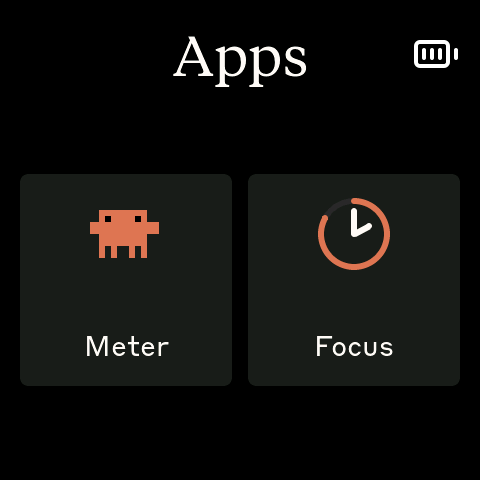
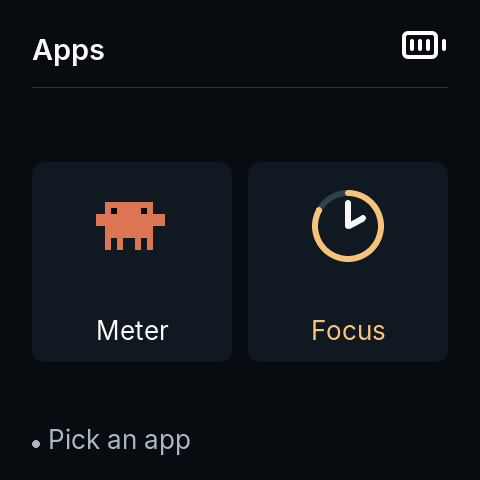
docs: design-system screens in the README and guides; H14 closed

diff --git a/README.md b/README.md
@@ -7,7 +7,7 @@
 ![Built with PlatformIO](https://img.shields.io/badge/built%20with-PlatformIO-orange)
 
 <p align="center">
-  <img src="docs/media/screens/hw-claude.png" width="360" alt="ToknMon showing Claude Code usage: Current and Weekly bars on the Waveshare 2.16 AMOLED">
+  <img src="docs/media/screens/hw-claude.png" width="360" alt="ToknMon showing Claude Code usage on the Waveshare 2.16 AMOLED: weekly bar, 5-hour block and the Clawd mascot in the header">
 </p>
 
 **ToknMon** is a desk-side usage meter for AI coding assistants. A pocket-size
@@ -47,9 +47,9 @@ requests are welcome, support is best-effort.
 | | |
 | --- | --- |
 | <img src="docs/media/screens/claude-usage.png" width="240" alt="Claude usage view with Current and Weekly bars"> | **Four providers, one carousel.** Claude Code (5-hour session and weekly bars, plus the model-scoped **Fable** weekly window on its own page of small Clawds when your plan has one), Codex CLI, Kimi Code and Grok Build CLI each get a slot. Tap or swipe to page; it stays on the provider you picked, even after a reboot. Paging skips slots without fresh data. |
-| <img src="docs/media/screens/hw-codex-credits.png" width="240" alt="Codex page on the real panel: reset-credit ledger above the weekly dot grid"> | **A screen per provider.** Codex shows a 10×10 dot grid filling to the weekly percentage (plus a compact 5h bar when the plan has one) and, when your account has them, a **Resets** ledger of OpenAI's reset credits: how many you hold, how many you spent in the last 30 days and when the next one expires. Grok shows its weekly credit window on a silver dot grid; Kimi shows 5h and weekly bars in blue; Claude keeps its bars in clay. |
+| <img src="docs/media/screens/hw-codex.png" width="240" alt="Codex page on the real panel: weekly bar, reset-credit panel and the Bsod mascot in the header"> | **A screen per provider, one design system.** Every page shares the same module (H14): title and mascot in the header, the weekly figure in large type, a full-width usage bar, the reset time and a footer with a status dot. Codex adds a **Reset credits** panel when your account has them (held, used in the last 30 days, next expiry); Claude and Kimi add a `CURRENT · 5H` block; Grok shows its weekly credit window in silver; Fable shows Claude's model-scoped weekly window as a 5×4 grid of Clawds, one per 5 %. |
 | <img src="docs/media/screens/hw-codex-pet-rocky.png" width="240" alt="Rocky, one of the Codex pets, full-size on the real panel"> | **Codex pets.** The eight ChatGPT pets (Bsod, Codex, Dewey, Fireball, Null Signal, Rocky, Seedy, Stacky) ride along in Codex's full-screen set: idle loop, wave, jump and a happy hop. Tap the splash to cycle them. Converted from the sprite sheets with `tools/convert_pet_spritesheet.py` (see `NOTICE.md`). |
-| <img src="docs/media/screens/mascot-codex.png" width="240" alt="Mascot mode pinned to Codex"> | **Mascots and mascot mode.** Clawd for Claude (Anthropic's official set), original three-dots, crescent-moon and Grokbot-style ball characters for Codex, Kimi and Grok, each with idle, acts, a mountain-bike ride and two full-screen scenes. Long-press the meter to watch a provider's set full-size. |
+| <img src="docs/media/screens/mascot-codex.png" width="240" alt="Mascot mode pinned to Codex"> | **Mascots and mascot mode.** Clawd for Claude (Anthropic's official set), the Bsod pet for Codex, original crescent-moon and Grokbot-style ball characters for Kimi and Grok, each with idle, acts, a mountain-bike ride and two full-screen scenes. Long-press the meter to watch a provider's set full-size. |
 | <img src="docs/media/screens/parade.png" width="240" alt="Idle parade with the Codex mascot on stage"> | **The parade.** The device rotates every live provider's full-size mascot every 20 s, until you swipe back. It never starts on its own (serial `parade on`). |
 | <img src="docs/media/screens/scene-kimi-night.png" width="240" alt="Kimi night scene"> | **Draw your own.** Animations are plain text grids compiled by a small Node tool. The Codex and Kimi scenes were authored by an AI agent from a two-sentence brief. |
 | <img src="docs/media/screens/splash-claude.png" width="240" alt="Default Clawd splash"> | **Quiet by design.** No cloud, no accounts of its own: the daemon reads the tokens your CLIs already have (Claude Code, Codex, Kimi, Grok) or local logs, polls once a minute with no token spend, and pushes ~150 bytes per provider over BLE. The BOOT button doubles as a Bluetooth keyboard key for Claude Code (Space). |
@@ -84,7 +84,7 @@ On the device the scenes fill the 480×480 panel:
 | Board | PlatformIO env | Status |
 | --- | --- | --- |
 | [Waveshare ESP32-S3-Touch-AMOLED-2.16](https://www.waveshare.com/esp32-s3-touch-amoled-2.16.htm) — 480×480 CO5300 AMOLED, CST9220 touch, AXP2101 PMU, QMI8658 IMU, ES8311 codec | `waveshare_amoled_216` | ✅ **verified** — the board ToknMon is developed and tested on |
-| Waveshare ESP32-S3-Touch-AMOLED-1.8, ESP32-S3-Touch-AMOLED-2.06, ESP32-C6-Touch-AMOLED-2.16 / 1.8, ESP32-S3-Touch-LCD-1.54, ESP32-S3-Touch-LCD-4 | `waveshare_amoled_18`, `waveshare_amoled_206`, `waveshare_amoled_216_c6`, `waveshare_amoled_18_c6`, `waveshare_lcd_154`, `waveshare_lcd_4` | ⚠ **inherited from Clawdmeter, untested with ToknMon.** They compile in CI, but nobody has run the multi-provider UI, mascots or gestures on them since the fork. The C6 boards have no PSRAM: no corner mascots, no dot grid, no `screenshot` command. Reports welcome. |
+| Waveshare ESP32-S3-Touch-AMOLED-1.8, ESP32-S3-Touch-AMOLED-2.06, ESP32-C6-Touch-AMOLED-2.16 / 1.8, ESP32-S3-Touch-LCD-1.54, ESP32-S3-Touch-LCD-4 | `waveshare_amoled_18`, `waveshare_amoled_206`, `waveshare_amoled_216_c6`, `waveshare_amoled_18_c6`, `waveshare_lcd_154`, `waveshare_lcd_4` | ⚠ **inherited from Clawdmeter, untested with ToknMon.** They compile in CI, but nobody has run the multi-provider UI, mascots or gestures on them since the fork. The C6 boards have no PSRAM: no corner mascots, no Fable grid, no `screenshot` command. Reports welcome. |
 
 **Host**: macOS only. The Linux and Windows daemons in `daemon/` are inherited,
 Claude-only and untested with ToknMon.
@@ -204,19 +204,20 @@ The board boots on the **splash** (animations) and swipes to the **meter**
   until you touch it (serial `parade on` starts it).
 - **App center and Focus** (H12): the side button shows one tile per enabled
   app. **Focus** is a block timer for deep work: pick a block (25 min by
-  default, 5 to 120 in 5-minute steps: tap the right half or swipe up for +5,
-  left half or swipe down for −5), press **Start** (or PWR), and the ring
-  empties while the countdown runs; tap pauses, a long press cancels. At zero
-  the bell rings three times, the screen says **Done · Block N today** and
-  **Start next** begins another block of the same length. The daily counter
+  default, 5 to 120 in 5-minute steps: the **−5 / +5** cards, the screen
+  halves or a vertical swipe), press **Start focus** (or PWR), and the amber
+  ring empties while the countdown runs; **Pause** / **Resume** on the button
+  or PWR, a long press on the timer cancels. At zero the bell rings three
+  times, the screen says **COMPLETE** and **Start next** returns to setup
+  with the same length for another explicit start. The daily counter
   survives reboots and resets when the daemon's clock says the day changed.
   The host decides which apps the board offers (`apps = meter` hides Focus
   and the app center; the menu-bar app toggles it). Details:
   [`docs/apps.md`](docs/apps.md).
 
-| <img src="docs/media/screens/hw-apps.png" width="220" alt="App center with the Meter and Focus tiles on the real panel"> | <img src="docs/media/screens/hw-focus-setup.png" width="220" alt="Focus setup: 25:00 inside the ring, 0 blocks today, Start"> | <img src="docs/media/screens/hw-focus-running.png" width="220" alt="Focus running: 24:58, Block 2 today"> | <img src="docs/media/screens/hw-focus-done.png" width="220" alt="Focus done: Done, Block 2 today, Start next"> |
+| <img src="docs/media/screens/hw-apps.png" width="220" alt="App center with the Meter and Focus tiles on the real panel"> | <img src="docs/media/screens/hw-focus-setup.png" width="220" alt="Focus setup: 25:00 inside the ring, minus and plus cards, Start focus"> | <img src="docs/media/screens/hw-focus-running.png" width="220" alt="Focus running: countdown inside the amber ring, Pause"> | <img src="docs/media/screens/hw-focus-done.png" width="220" alt="Focus complete: 00:00, empty ring, Start next"> |
 | --- | --- | --- | --- |
-| app center | Focus: setup | Focus: running | Focus: done |
+| app center | Focus: setup | Focus: running | Focus: complete |
 
 - **Attention alerts**: with the Claude Code hooks installed
   ([how](docs/install-macos.md#attention-alerts-from-claude-code-optional)),
@@ -227,9 +228,9 @@ The board boots on the **splash** (animations) and swipes to the **meter**
 | Provider | Source | Screen |
 | --- | --- | --- |
 | **Claude Code** | `GET https://api.anthropic.com/api/oauth/usage` with the Claude Code OAuth token — one request per poll, no token spend | Current (5h) and Weekly bars, and a **Fable** view (a grid of small Clawds) when the subscription reports a model-scoped window |
-| **Codex CLI** | the newest `rate_limits` entry in `~/.codex/sessions/**/rollout-*.jsonl` (last 7 days) — local files; plus, once an hour, OpenAI's reset credits with the Codex CLI login (`codex_credits = off` disables it) | 10×10 dot grid for the weekly window, large percentage and reset time; compact 5h bar only when the plan has one; a "Resets" ledger when the account has reset credits |
+| **Codex CLI** | the newest `rate_limits` entry in `~/.codex/sessions/**/rollout-*.jsonl` (last 7 days) — local files; plus, once an hour, OpenAI's reset credits with the Codex CLI login (`codex_credits = off` disables it) | weekly usage bar, large percentage and reset time; a "Reset credits" panel when the account has reset credits (the 5h window, when a plan has one, yields to the panel) |
 | **Kimi Code** | `GET https://api.kimi.com/coding/v1/usages` with the token from `~/.kimi-code/credentials`; expired tokens are refreshed through `https://auth.kimi.com/api/oauth/token` and written back like the CLI does | 5h and weekly bars |
-| **Grok Build CLI** | `GET https://cli-chat-proxy.grok.com/v1/billing?format=credits` with the access token from `~/.grok/auth.json`; an expired token is refreshed through `https://auth.x.ai/oauth2/token` and written back like Grok does; when the call still fails, the newest billing line in `~/.grok/logs/unified.jsonl` if it is under 6 h old | 10×10 dot grid for the weekly credit window (Grok has no 5h window) |
+| **Grok Build CLI** | `GET https://cli-chat-proxy.grok.com/v1/billing?format=credits` with the access token from `~/.grok/auth.json`; an expired token is refreshed through `https://auth.x.ai/oauth2/token` and written back like Grok does; when the call still fails, the newest billing line in `~/.grok/logs/unified.jsonl` if it is under 6 h old | weekly credit bar in silver with the remaining percentage (Grok has no 5h window) |
 
 **Detection.** With `providers = auto` (the default) the daemon checks on every
 poll which providers are usable, locally and without network: a Claude Code

diff --git a/docs/odd/toknmon-h14-ui-redesign.md b/docs/odd/toknmon-h14-ui-redesign.md
@@ -26,7 +26,7 @@ Objective: the Fable, Codex and Grok pages and the Focus screens use the whole 4
 | T3 | S2 → propuesta design system (fonts, theme, usage pages, app center, footer) | delegated writer H | done | `376eb90` (Inter fonts), `b83b501` (UI) |
 | T4 | S3 Focus layout | writer G built v1 (`c597917`); writer I rebuilt it on the propuesta geometry | done | `4b84765` |
 | T6 | L15 text sizes, inline label, smaller figure, Fable 5×4 grid | delegated writer J | done | `6e572a6` |
-| T5 | hardware flash, screenshots, docs/media, CHANGELOG, PR update | inline (parent) | open | |
+| T5 | hardware flash, screenshots, docs/media, CHANGELOG, PR update | inline (parent) | done | docs commit (see L18) |
 
 ## Log
 
@@ -47,3 +47,4 @@ Objective: the Fable, Codex and Grok pages and the Focus screens use the whole 4
 - **L15** (2026-10-22, user, verbatim, second device round): "Necesito que hagas los siguientes cambios Primero la leyenda del weekly users puede ir en seguida del porcentaje, alineado, para poder ganar un poco más de espacio y que ese weekly users se pueda leer un poco mejor Y poder aumentar un pequeño porcentaje el tamaño de los tags: lo que dice "weekly users reset en 4 days 2 horas", "current resets" y el status de abajo En Grok, lo mismo: el tema de los tamaños de las letras de los tags Tal vez se pudiera disminuir un poco el tamaño del porcentaje Y en la pantalla de Fable tal vez pudiéramos poner más grandes los iconitos, pero quitar columnas y renglones de la matriz porque ahorita se ve como algo muy saturado. Me gusta el espacio, el margen que se dejó y todo. Solo necesitamos arreglar ese tema de la matriz de los iconitos de Fable Y bueno el tamaño de los textos aplica en todos, claro" → T6: WEEKLY USAGE label inline after the figure (same row as `%`/`used`), labels 13 → 16 px SemiBold (new face), reset lines / 5h reset / footer in 22 px, big figure 92 → 80 px (new face), Fable grid 10×10 scale 2 → 5×4 glyphs (5 % each) at scale 4, same margins. Writer J.
 - **L16** T6 evidence (writer J): `font_inter_80` Medium and `font_inter_16` SemiBold generated, `font_inter_92` deleted (flash 76.8 % → 76.9 %); `WEEKLY USAGE` inline 16 px after `%` on the `used` baseline (hidden only when it would collide: enterprise `MONTHLY SPENDING` at 100 %); figure row up 10 px (baseline 200), bar/reset/panel/footer unchanged; reset lines, 5h reset, credit metadata, Focus support/controls/button and footers in 22 px; labels/provider/clock/Focus captions in 16 px; Fable: reset line under the figure row, 5×4 grid of 48×32 Clawds (5 % each, `round(pct/5)`), no bar; `sim/full.jsonl` 100 % QA scenario; sim captures of every page incl. 100 % states viewed, no overlap, inside the 24 px inset; builds sim/216/1.8 OK; sticky-view and focus-logic tests green. Parent: flashed to the board for the user's third device round.
 - **L17** (2026-10-22, user, verbatim, third device round): "Me va gustando más, ¿hay posibilidad de hacer un poco más grandes los textos? aún hay espacio o margen de movimiento?" → yes: labels 16 → 20 px SemiBold (`font_inter_20`), supporting lines/footers 22 → 26 px Regular (`font_inter_26`) on the 480 breakpoint (usage pages, Focus captions/support/controls/button, app center); geometry unchanged; sim captures of Claude, Codex, Kimi, Fable, Focus setup/running viewed with no overlap; flashed.
+- **L18** (2026-10-22, user): "Aprobado, cierra" after the fourth device round. Final hardware captures replace `docs/media/screens/hw-*.png` (Codex, Claude, Kimi, Grok, Fable, app center, Focus setup/running/paused/done); README feature rows, provider table, Focus paragraph, CLAUDE.md (fonts, Fable grid, design-system section), `docs/controls.md`, `docs/media/README.md` and the CHANGELOG updated; the Codex designer agent was exited and its pane closed. Open follow-ups: Focus cancel confirmation dialog (design §6), `Hold timer to cancel` hint readability, 1.8/C6 breakpoints only build-verified.

diff --git a/CLAUDE.md b/CLAUDE.md
@@ -115,7 +115,7 @@ firmware/src/
   focus_logic.{h,cpp}       — Focus block-timer state machine (pure C++, tested natively by tools/test/shell/test_focus_logic.sh)
   icons.h                   — icon arrays. Battery (5×) are RGB565A8 with alpha; rest are raw RGB565.
   logo.h                    — 80×80 RGB565 logo
-  font_*.c                  — pre-compiled LVGL 9 bitmap fonts (Tiempos 56/34, Styrene 48/28/24/20/16/14/12, Mono 32/18)
+  font_*.c                  — pre-compiled LVGL 9 bitmap fonts: Inter 80/60/29/26/22/20/17/16/15/13 (H14 design system, usage/Focus/app pages), Tiempos 56/34 and Styrene 48/28/24/20/16/14/12 (splash, pairing, legacy breakpoints), Mono 32/18 (spinner glyphs)
   splash_animations.h       — generated, do not hand-edit (official Clawd set)
   custom_animations.h       — generated, do not hand-edit (Codex/Kimi grids)
 daemon/                     — macOS host daemon (claude_usage_daemon.py + providers/), launchd template, tests
@@ -300,8 +300,8 @@ then a blink) whose only corner act is that blink; their small splash acts
 stay on the splash, and `splash_step()` skips `*.icon` entries when it walks
 the catalog. `ui.cpp` calls `splash_mascot_set_provider()` when the
 carousel changes view, and `splash_mascot_set_trips(false)` unless the
-two-bar layout is up, because the full-size lurk peeks in over the third
-panel or the dot grid; Codex, Kimi and Grok have no walk gait, so they only
+two-bar layout is up, because the full-size lurk peeks in over the lower
+module (credit panel, 5h block or Fable grid); Codex, Kimi and Grok have no walk gait, so they only
 ever act in place. The corner buffer is sized
 from the largest frame across all specs at create time and `mas_render()`
 refuses (and logs once) any frame that would not fit.
@@ -316,11 +316,26 @@ Claude, Fable, Codex, Kimi, Grok; `UI_VIEW_FABLE = PROVIDER_COUNT` in
 stale or reports `ok:false` stays on screen with its last values. At boot,
 until the picked view has data, the first view with data stands in. The
 Fable view is Claude's model-scoped weekly limit (`f`/`fr`, label `fl`)
-drawn by `draw_clawds()` as a 10×10 grid of 12×8-cell Clawd glyphs written
-straight into the dot canvas buffer; it exists only while Claude's payload
-carries the limit and the board has the dot canvas, otherwise Claude keeps
-the dense three-bar layout (C6). `SIM_SLOT=0-4` seeds the pick in the
-simulator.
+drawn by `draw_clawds()` as a 5×4 grid of 12×8-cell Clawd glyphs at scale 4
+(one glyph per 5 %, H14) written straight into the canvas buffer; it exists
+only while Claude's payload carries the limit and the board has the canvas,
+otherwise Claude keeps the dense three-bar layout (C6). `SIM_SLOT=0-4` seeds
+the pick in the simulator.
+
+### Design system (H14)
+
+Usage pages, the app center and Focus follow the user's design package
+(`docs/odd/toknmon-h14-ui-redesign.md`, L9–L17): tokens in `theme.h`
+(`UI_BG 0x0B0F14`, `UI_SURFACE`, `UI_DIVIDER`, `UI_TRACK`, `UI_TEXT`,
+`UI_MUTED`; accents Claude terracotta, Codex monochrome, Kimi pastel blue,
+Grok silver, Focus amber), Inter faces (`docs/fonts.md`), and one usage
+module in `ui.cpp` (`MOD_*` constants in 480-px design coordinates scaled by
+`L.sx/L.sy`, text placed by baseline through `text_top()`): header (title,
+corner mascot, clock, provider label, battery, rule), figure row (80 px value,
+`%`, inline `WEEKLY USAGE`, `used`), 22 px bar, reset line, then the credit
+panel (Codex), the `CURRENT · 5H` block (Claude, Kimi), the remaining line
+(Grok) or the Clawd grid (Fable), and a footer dot + status verb. The dot
+grids of H5/H10 are gone; the splash keeps pure black.
 
 ### Mascot mode and parade (H6)
 

diff --git a/docs/media/README.md b/docs/media/README.md
@@ -82,11 +82,11 @@ The official Claude (Clawd) splash set is not exported here; it is generated
 from Anthropic's assets by `tools/convert_official_clawd.js` and is not
 redistributed as loose media.
 
-## Hardware and host shots added in H11/H13
+## Hardware and host shots (H11–H14)
 
 | File | Source |
 | --- | --- |
-| `screens/hw-codex-credits.png` | Waveshare 2.16 over USB (`./screenshot.sh … --screen usage:codex`) with the H11 daemon: the reset-credit ledger above the Codex dot grid |
+| `screens/hw-{codex,claude,kimi,grok,fable}.png` | Waveshare 2.16 over USB (`./screenshot.sh … --screen usage:<provider>`) with the H14 design system and live daemon data |
 | `screens/hw-codex-pet-rocky.png` | Waveshare 2.16, `screen splash codex` + `splash next` until `codex.pet-rocky` |
-| `screens/hw-apps.png`, `screens/hw-focus-setup.png`, `screens/hw-focus-running.png`, `screens/hw-focus-done.png` | Waveshare 2.16 over USB, serial `screen apps`, `screen focus`, `focus start`, `focus finish` |
+| `screens/hw-apps.png`, `screens/hw-focus-{setup,running,paused,done}.png` | Waveshare 2.16 over USB, serial `screen apps`, `screen focus`, `focus start`, `focus pause`, `focus finish` |
 | `screens/menubar-app.png` | **Rendered preview**, not a screen capture: the menu's lines come from `daemon/gui/model.py` fed with a live `status.json`, drawn with Pillow (macOS does not let a script open an NSMenu without Accessibility access). Replace with a real capture when convenient. |

diff --git a/CHANGELOG.md b/CHANGELOG.md
@@ -37,6 +37,15 @@ H0–H10); the entries below summarize them.
 - `install-mac.sh --apps meter|suite` and the `apps` config key choose
   between the usage meter alone and the full suite (meter + Focus timer).
 
+- **Design system** (H14): usage pages, the app center and Focus follow one
+  visual system (dark `#0B0F14` background, Inter type, full-width usage
+  bars, a credit panel for Codex, `CURRENT · 5H` block for Claude and Kimi,
+  footer status dot) with the provider mascots kept in the header; Fable
+  shows its model-scoped window as a 5×4 grid of Clawds (one per 5 %); Focus
+  gets the amber ring, −5/+5 cards, Pause/Resume, a Paused state and
+  "Start next" back to setup. The Bsod pet is Codex's corner avatar and opens
+  its splash set. New Inter faces (OFL) in `firmware/src/font_inter_*.c`.
+
 ### Changed
 
 - The side button (GPIO18 on the 2.16) now opens the app center; its

diff --git a/docs/controls.md b/docs/controls.md
@@ -73,8 +73,8 @@ through the whole catalog, custom animations included (`claude.bike`).
   percentage, reset) under it; title in terracotta; the Clawd corner mascot,
   which walks off and back, lurks and acts depending on the pace.
 - **Fable**: when the subscription has a model-scoped weekly limit, it gets
-  its own view right after Claude: the track gives way to a 10×10 grid of
-  small Clawds across the working width, one per percent, filled in
+  its own view right after Claude: the track gives way to a 5×4 grid of
+  large Clawds across the working width, one per 5 %, filled in
   terracotta; the title is the model name the daemon sends (`fl`, "Fable"
   when absent) tagged `CLAUDE`, with the reset time right of the figure.
   Boards without the canvas (the C6 ports) keep it as a third bar on the
